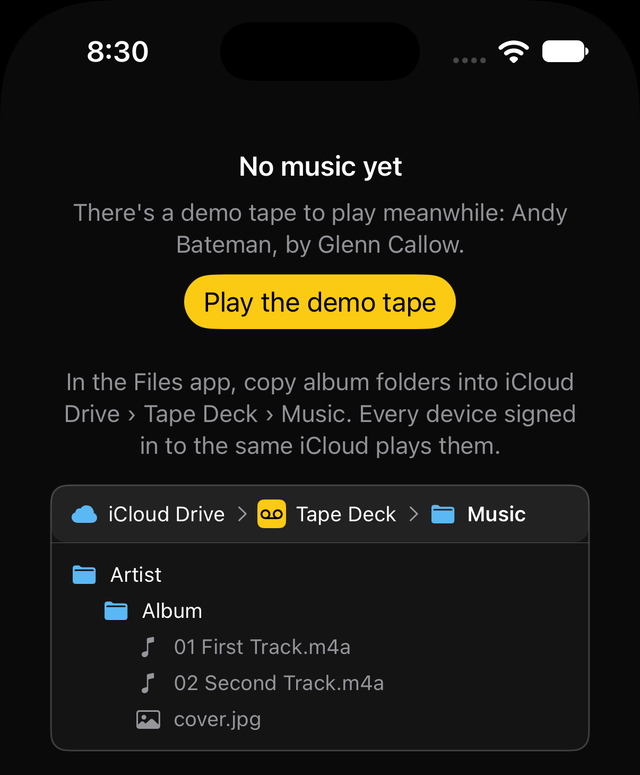
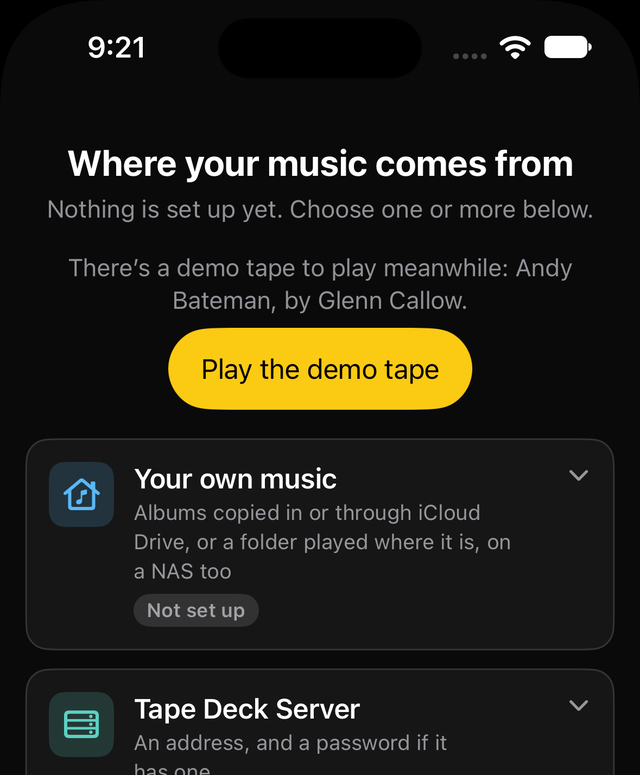
/tapedeck/: the help led by numbered pictures of the header, the keys and a row, pictures through the sections, the Questions around what testers asked, the opening screen's new picture; Get it names the OS versions

diff --git a/tapedeck/help.html b/tapedeck/help.html
@@ -25,6 +25,7 @@
   <h1>Help</h1>
   <p class="lede" style="margin-left:0">Getting your music in, playing it, and setting the tape up the way you like it.</p>
   <ul class="toc">
+    <li><a href="#guide">What the buttons are</a></li>
     <li><a href="#start">Getting started</a></li>
     <li><a href="#playing">Playing</a></li>
     <li><a href="#cassette">The cassette</a></li>
@@ -40,6 +41,76 @@
   </ul>
 </header>
 
+<section id="guide" aria-labelledby="guide-h">
+  <h2 id="guide-h">What the buttons are</h2>
+  <p>The app's header, its keys and an album's row, each numbered. Find the button you're puzzled by, then read its number underneath.</p>
+  <h3>The header</h3>
+  <figure class="guide">
+    <div class="scroll"><div class="min-600"><img src="img/guide-header.jpg" alt="The app's header with every button showing, numbered 1 to 8 from the left: the cassette mark and the title, the count, the source button, the heart, the circle, the speakers, the settings and the help" width="1520" height="232" loading="lazy"></div></div>
+    <ol class="legend">
+      <li><b>The cassette mark and the title.</b> What the list is made of: Music Library, Audiobooks or Apple Music.</li>
+      <li><b>The count.</b> How many albums (or tracks, or books) are showing, out of how many there are. A search or a filter brings the first number down.</li>
+      <li><b>The source button.</b> It is only there once you have a second source: an Audiobookshelf server or Apple Music. It opens a menu of what the list plays from, and stays lit while you are away from your own music.</li>
+      <li><b>The heart.</b> Favourites only. Press it again to see everything. In the app, hold it for a second to download your favourites.</li>
+      <li><b>The circle.</b> Downloaded only: what is on this device. In the app it also counts the tracks still to come while downloads run.</li>
+      <li><b>The speakers.</b> The system&#39;s list of AirPlay speakers. It stays lit while a speaker is chosen, and names it.</li>
+      <li><b>The settings.</b> Tape settings. A right-click on it lists the tabs by name (on the Mac, the settings open in a window of their own).</li>
+      <li><b>The help.</b> This help, as a panel in the app.</li>
+    </ol>
+    <figcaption>The header, with the source button showing as it does once there is a second source.</figcaption>
+  </figure>
+  <p class="note">The heart and the circle are switches: they stay lit while they are on, and a second press turns them off. The speakers and the source button stay lit while something other than the Mac or your own music is chosen. Every header button has a right-click menu that says what it does.</p>
+  <h3>The keys</h3>
+  <p>There are two sets, Tape and Modern. Choose in tape settings › Tape › Controls, or right-click the keys. This is the Tape set, with the meters on.</p>
+  <figure class="guide">
+    <div class="scroll"><div class="min-760"><img src="img/guide-keys.jpg" alt="The transport with the Tape keys and the LED meters on, numbered 1 to 11 from the left: Play, Rewind, Fast forward, Stop and eject, Pause, This Tape, the cassette button, the Track and Tape switch, the counter, the bar and the meters" width="2000" height="246" loading="lazy"></div></div>
+    <ol class="legend">
+      <li><b>Play.</b> It latches down while the tape runs, and its arrow shows the way the tape is going. Pressed while the tape runs, it turns the tape over.</li>
+      <li><b>Rewind.</b> Races the tape back until you press Stop or Play.</li>
+      <li><b>Fast forward.</b> The same, the other way.</li>
+      <li><b>Stop and eject.</b> ■▲ stops the tape where it is. Pressed again, it ejects.</li>
+      <li><b>Pause.</b> Holds a playing tape where it is. Press it again, or Play, to carry on.</li>
+      <li><b>This Tape.</b> The list of the album that is playing, whole (<kbd>Q</kbd>).</li>
+      <li><b>The cassette.</b> Shows or hides the cassette above the list (<kbd>C</kbd>).</li>
+      <li><b>Track or Tape.</b> What the bar shows: the track playing, or the whole tape (<kbd>T</kbd>).</li>
+      <li><b>The counter.</b> Turns of the take-up hub, as a deck&#39;s counter reads.</li>
+      <li><b>The bar.</b> How far in you are. Click it to wind to a spot.</li>
+      <li><b>The meters.</b> Left and right, green, then amber, then red as the tape gets louder. They are there only when Look › VU meters is on.</li>
+    </ol>
+    <figcaption>The transport as the Tape keys have it.</figcaption>
+  </figure>
+  <p>The Modern set swaps these for a player's keys.</p>
+  <figure class="guide short">
+    <div class="scroll"><div class="min-480"><img src="img/guide-keys-modern.jpg" alt="The Modern keys, numbered 1 to 6 from the left: Shuffle, Skip back, Play and Pause as one key, Skip forward, Repeat and Stop and eject" width="960" height="246" loading="lazy"></div></div>
+    <ol class="legend">
+      <li><b>Shuffle.</b> Plays the queue in a random order.</li>
+      <li><b>Skip back.</b> A tap goes to the previous track; hold it to rewind.</li>
+      <li><b>Play and Pause.</b> One key. It shows Pause while the music plays.</li>
+      <li><b>Skip forward.</b> A tap goes to the next track; hold it to wind on.</li>
+      <li><b>Repeat.</b> Plays the current track again when it ends.</li>
+      <li><b>Stop and eject.</b> ■▲, as in the Tape set.</li>
+    </ol>
+    <figcaption>The Modern set, playing.</figcaption>
+  </figure>
+  <h3>An album's row</h3>
+  <figure class="guide">
+    <div class="scroll"><div class="min-640"><img src="img/guide-row.jpg" alt="Three album rows. The first shows the open arrow, the track count, the heart, the download arrow and the play button, numbered 1 to 5. The second has a ring in place of the arrow and a ring filling round the download arrow. The third has a yellow dot and a download arrow filled yellow" width="1724" height="588" loading="lazy"></div></div>
+    <ol class="legend">
+      <li><b>The arrow.</b> Opens the album to show its tracks.</li>
+      <li><b>The count.</b> How many tracks the album has.</li>
+      <li><b>The heart.</b> Marks the whole album as a favourite.</li>
+      <li><b>The download arrow.</b> Fetches the album to this device without playing it.</li>
+      <li><b>Play.</b> Plays the album in order. Double-clicking the row does the same.</li>
+      <li><b>A ring</b> where the arrow was: part of the album is on this device.</li>
+      <li><b>A ring round the download arrow</b> while it downloads. It fills as the tracks arrive.</li>
+      <li><b>A yellow dot</b> where the arrow was: the whole album is on this device.</li>
+      <li><b>The arrow, filled yellow:</b> downloaded. Point at it and a × shows; pressing it removes the downloaded copy. Music you copied in yourself is never removed.</li>
+    </ol>
+    <figcaption>An album&#39;s row, then what a download does to it.</figcaption>
+  </figure>
+  <p>A track has its own heart and download arrow, for that one track.</p>
+</section>
+
 <section id="start" aria-labelledby="start-h">
   <h2 id="start-h">Getting started</h2>
   <p>Tape Deck plays music you already have. There are a few ways to bring it in, and you can use them together.</p>
@@ -49,7 +120,7 @@
     <dt>Through iCloud Drive</dt>
     <dd>Copy album folders into <b>iCloud Drive › Tape Deck › Music</b>, laid out as Artist › Album › tracks, and they're in the app on every iPhone, iPad and Mac signed in to the same iCloud. An album fills in, track by track, as iCloud brings it to each device, and shows up while the app is open. An album folder dropped straight into Music, with no artist's folder around it, is named by its tags. Open the app once on a device for the Tape Deck folder to appear there.</dd>
     <dt>Play from your own music server</dt>
-    <dd>If you run a music server, type its address in <b>tape settings › Library › Music server</b>, or on the first screen when there's no music yet. It can be a Tape Deck Server, Plex (sign in with your Plex account) or a Subsonic server such as Navidrome, or Jellyfin through its Subsonic plugin. The whole library on it is listed; a track downloads when you play it, and the rest of its album after it.</dd>
+    <dd>If you run a music server, type its address in <b>tape settings › Library › Music server</b>, or in its tile on the app's opening screen. It can be a Tape Deck Server, Plex (sign in with your Plex account) or a Subsonic server such as Navidrome, or Jellyfin through its Subsonic plugin. The whole library on it is listed; a track downloads when you play it, and the rest of its album after it. If the server asks for a password, a Password field shows. <b>Start again</b>, under the server in tape settings › Library, forgets the server and its sign-in and shows the opening screen again, with <b>Open the player</b> to come back.</dd>
     <dt>No server? Run Tape Deck Server</dt>
     <dd><a href="https://github.com/andybateman/tape-deck-server">Tape Deck Server</a> is a free, open-source music server for the app: one Python file, or one Docker container, on any computer, NAS or Raspberry Pi. Point it at a folder of albums laid out as Artist › Album › tracks, put it behind HTTPS (Caddy or Tailscale Serve will do), and type that address into the app. A password keeps it yours, and a second one lets friends play without touching your favourites.</dd>
     <dt>A music folder, or a NAS</dt>
@@ -90,8 +161,12 @@
     <dt>With the screen off</dt>
     <dd>Music keeps playing with the screen locked or the app in the background, and the lock screen, Control Centre and headphone controls work. A call or an alarm stops the tape, and it carries on afterwards; so does the car's announcement. Taking the headphones out, or leaving the car, stops it.</dd>
     <dt>AirPlay speakers</dt>
-    <dd>The jack plug in the header lists your AirPlay speakers. Choose one and the tape plays there, and the cassette is drawn a little late to keep time with what you hear.</dd>
+    <dd>The speakers button in the header (a jack plug) lists your AirPlay speakers. Choose one and the tape plays there, and the cassette is drawn a little late to keep time with what you hear.</dd>
   </dl>
+  <figure class="pic">
+    <img src="img/mixtape.jpg" alt="A mixtape being made: the bar over the list with its name, Sunday Drive, how many tracks are on it, and Delete and Done, and a + on every album&#39;s row" width="1800" height="600" loading="lazy">
+    <figcaption>Making a mixtape: name it in the bar, and press + on what you want.</figcaption>
+  </figure>
 </section>
 
 <section id="cassette" aria-labelledby="cassette-h">
@@ -110,6 +185,14 @@
     <dt>Tape settings</dt>
     <dd>The gear in the header or on the cassette, or <kbd>G</kbd>. <b>Tape</b>: what a side holds, side length, auto-reverse, the keys and the leader. <b>Sound</b>: the tape's condition, its type and Dolby, the cue tone and motor wow. <b>Look</b>: the shell, the label, the handwriting, the VU meters and the tint from the cover. <b>Library</b>: the music server, the audiobook server, the downloads, and Reset, which puts the settings back to their defaults and keeps your favourites and your place.</dd>
   </dl>
+  <figure class="pic narrow">
+    <img src="img/meters.jpg" alt="The VU meters in the transport, lit to a loud passage: two rows of twelve lights, green, then amber, then a red one" width="760" height="130" loading="lazy">
+    <figcaption>The VU meters, lit.</figcaption>
+  </figure>
+  <figure class="pic narrow">
+    <img src="img/settings-tabs.jpg" alt="Tape settings open on Look, with its four tabs, Tape, Sound, Look and Library, along the top" width="600" height="1200" loading="lazy">
+    <figcaption>Tape settings, with its four tabs.</figcaption>
+  </figure>
 </section>
 
 <section id="library" aria-labelledby="library-h">
@@ -122,9 +205,9 @@
     <dt>Search</dt>
     <dd>Searches title, artist and album as you type; every word has to match somewhere, and accents don't need typing. <kbd>Esc</kbd>, or the cross in the box, clears it.</dd>
     <dt>Favourites</dt>
-    <dd>The heart on a track marks it; the heart on an album's row marks the whole album. The heart in the header shows favourites only. They follow you between your iPhone, iPad and Mac through iCloud.</dd>
+    <dd>The heart on a track marks it; the heart on an album's row marks the whole album. The heart in the header, Favourites only, shows nothing but favourites. They follow you between your iPhone, iPad and Mac through iCloud.</dd>
     <dt>What's on this device</dt>
-    <dd>A yellow dot means an album or track is on this device; a ring means part of the album is. The ring-and-dot button in the header shows only what's on this device. When the server can't be reached, everything else is dimmed and skipped.</dd>
+    <dd>A yellow dot means an album or track is on this device; a ring means part of the album is. The Downloaded only button in the header, a ring with a dot, shows only what's on this device. When the server can't be reached, everything else is dimmed and skipped.</dd>
     <dt>Downloads</dt>
     <dd>The download button beside an album's ▶ fetches it without playing it, and × removes the downloaded copy (music you copied in yourself is never removed). A track has its own download button beside its heart, for that one track. Tape settings › Library › Downloads sets how much space to keep, 20 GB unless you change it; past that, the albums played longest ago are removed first. Download there, or a long press on the header's heart, fetches every favourite.</dd>
   </dl>
@@ -156,6 +239,10 @@
     <dt>Keeping your place</dt>
     <dd>So a stray tap can't lose your place, a book's tape moves only by Rewind and Fast forward, the bar in Track view, and a chapter's row.</dd>
   </dl>
+  <figure class="pic">
+    <img src="img/books.jpg" alt="Audiobooks in Tape Deck: the header with the source button lit, a book open to its chapters, one of them playing, and how far in each of the others is" width="2400" height="1800" loading="lazy">
+    <figcaption>A book open to its chapters, one of them playing.</figcaption>
+  </figure>
 </section>
 
 <section id="watch" aria-labelledby="watch-h">
@@ -186,6 +273,10 @@
     <dt>iMessage stickers</dt>
     <dd>In a conversation in Messages, tap + and choose Tape Deck (under More if it isn't listed). There are eight cassettes, their hubs turning, each labelled in a hand with something to send: Mixtape, Road Trip, Love Songs, Thank You, Miss You, Happy Birthday, Good Night and Mind Blown. Tap one to send it, or touch and hold it to stick it on a message.</dd>
   </dl>
+  <figure class="pic narrow">
+    <img src="img/widget.png" alt="The Home Screen widget at its medium size: the cassette in the deck, the album and its side, and the keys Previous, Stop and Next under it" width="1092" height="510" loading="lazy">
+    <figcaption>The widget at its medium size.</figcaption>
+  </figure>
 </section>
 
 <section id="car" aria-labelledby="car-h">
@@ -212,6 +303,10 @@
     <dt>Settings</dt>
     <dd>Tape Deck › Settings… (<kbd>⌘,</kbd>) opens tape settings in a window of their own.</dd>
   </dl>
+  <figure class="pic narrow">
+    <img src="img/menu-cassette.jpg" alt="The cassette&#39;s right-click menu open beside it: Turn tape over, Eject, the shells, Clear shell, Cutaway, Exploded view, Label, VU meters, Full screen and Tape settings" width="1206" height="1052" loading="lazy">
+    <figcaption>A right-click on the cassette.</figcaption>
+  </figure>
 </section>
 
 <section id="keys" aria-labelledby="keys-h">
@@ -239,13 +334,35 @@
 
 <section id="faq" aria-labelledby="faq-h">
   <h2 id="faq-h">Questions</h2>
-  <details><summary>The app says "No music yet"</summary><p>It has found nothing to play; the button on that screen plays the demo tape meanwhile, which goes when music of your own comes. The screen shows where music goes: copy album folders into iCloud Drive › Tape Deck › Music, or through the Files app into the app's own folder (File › Show Albums Folder on the Mac), or type your music server's address on that screen. With no server of your own, <a href="https://github.com/andybateman/tape-deck-server">Tape Deck Server</a> serves a folder of music to the app.</p><img class="screen" src="img/first-screen.png" alt="The first screen with no music: a Play the demo tape button, then a drawing of iCloud Drive, Tape Deck, Music, with an artist's folder, an album's folder and its tracks inside" width="640" height="775" loading="lazy"></details>
-  <details><summary>The watch shows an empty deck</summary><p>The watch draws what's in your iPhone's deck, so open Tape Deck on the iPhone. With both in reach of each other, the tape appears on the watch within a few seconds.</p></details>
-  <details><summary>Does Tape Deck stream from a music service?</summary><p>Apple Music, with a subscription: Apple Music, from the source button in the header, plays your Apple Music library and the catalogue as tapes. Otherwise it plays music you have as files: copied into the app, in a folder on the Mac, or on your own music server.</p></details>
-  <details><summary>My favourites aren't on my other device</summary><p>They go through iCloud: check you're signed in to iCloud with the same Apple Account on both. They usually arrive within a minute.</p></details>
+  <p>What people have asked while testing Tape Deck.</p>
+
+  <h3 class="faq-h">Getting started</h3>
+  <details><summary>The app opens on "Where your music comes from"</summary><p>That's the opening screen: it shows when there's nothing to play yet, and whenever you ask for it in <b>tape settings › Library › Where the music comes from</b>. Each source has a tile saying what it needs and how it stands: your own music (copied into iCloud Drive › Tape Deck › Music, into the app's own folder through the Files app, or File › Show Albums Folder on the Mac, or a folder played where it is), a Tape Deck Server, Plex, Jellyfin or another Subsonic server, Audiobookshelf and Apple Music. Tap one to set it up there. A folder you make yourself, with the app's folder's name, isn't read: use the app's own, which Open in Files takes you to. Meanwhile the demo tape plays, and goes when music of your own comes. With no server of your own, <a href="https://github.com/andybateman/tape-deck-server">Tape Deck Server</a> serves a folder of music to the app.</p><img class="screen" src="img/first-screen.png" alt="The opening screen, Where your music comes from: nothing set up yet, a Play the demo tape button, then tiles for Your own music and Tape Deck Server, each with a small picture, what it needs and Not set up" width="640" height="775" loading="lazy"></details>
+  <details><summary>Which iPhone or iOS does it need?</summary><p>iOS 18 or later for the iPhone and iPad, macOS 15 for the Mac and watchOS 11 for the Apple Watch. On something older the app won&rsquo;t install, so update the system first.</p></details>
+  <details><summary>The invitation email&rsquo;s sign-in loops</summary><p>Open the invitation on the iPhone itself, install TestFlight from the App Store, and choose View in TestFlight (or Start Testing) in the email. If the sign-in still loops, open the same link on a Mac, or in a private browser window. An invitation runs out after a few days, so ask for a new one if yours has.</p></details>
+  <details><summary>TestFlight emailed me a build number that doesn&rsquo;t match</summary><p>The iPhone and the Mac apps are built separately, and each has its own build number. Check which app the email names: a Mac build is not an update for the iPhone.</p></details>
+  <details><summary>It went black after a while in the background</summary><p>iOS can end the app&rsquo;s page to free memory while it is in the background, and older builds were left with nothing to show. Version 4.29.2 loads the page again when you come back, so update from TestFlight.</p></details>
+  <details><summary>The watch shows an empty deck</summary><p>The watch draws what&rsquo;s in your iPhone&rsquo;s deck, so open Tape Deck on the iPhone. With both in reach of each other, the tape appears on the watch within a few seconds.</p></details>
   <details><summary>How do I make it sound clean?</summary><p>In tape settings › Sound, set the condition to Fresh and turn off the cue tone and motor wow; in Tape, turn off the lead in and lead out.</p></details>
-  <details><summary>Does it collect anything about me?</summary><p>No. There's no account and no tracking, and the only permission the app asks for is to use Apple Music, the first time you choose it from the source button. Your music stays on your devices and your own servers, and your favourites go through your own iCloud.</p></details>
-  <p>Something else? Email <a href="mailto:andy@andybateman.com">andy@andybateman.com</a>. The <a href="privacy.html">privacy policy</a> says what the app keeps, and where.</p>
+  <details><summary>Does it collect anything about me?</summary><p>No. There&rsquo;s no account and no tracking, and the only permission the app asks for is to use Apple Music, the first time you choose it from the source button. Your music stays on your devices and your own servers, and your favourites go through your own iCloud. The <a href="privacy.html">privacy policy</a> says what the app keeps, and where.</p></details>
+
+  <h3 class="faq-h">Servers and sources</h3>
+  <details><summary>Can I use Spotify?</summary><p>No. Spotify isn&rsquo;t a source Tape Deck can play. It plays Apple Music (with a subscription) and music you have as files: copied into the app, in a folder, or on your own music server.</p></details>
+  <details><summary>Does Tape Deck stream from a music service? Do I need an Apple Music subscription?</summary><p>Apple Music, with a subscription: Apple Music, from the source button in the header, plays your Apple Music library and the catalogue as tapes, and playing needs the subscription even for songs already in your library. Without one, Tape Deck plays music you have as files. <a href="#apple">More on Apple Music</a>.</p></details>
+  <details><summary>Should I have the book icon?</summary><p>That is the source button, and it is only there once there is a second source: an Audiobookshelf server (tape settings › Library) or Apple Music. With only your own music, the header has no source button. It is number 3 in <a href="#guide">the picture of the header</a>.</p></details>
+  <details><summary>Can I point it at my Jellyfin, Plex or Navidrome?</summary><p>Yes. Type the address in tape settings › Library › Music server. A Navidrome server works as it is, and Jellyfin works through its Subsonic plugin. For Plex, sign in with your Plex account. The music server Tape Deck was made for is <a href="https://github.com/andybateman/tape-deck-server">Tape Deck Server</a>.</p></details>
+  <details><summary>My server asks for a password</summary><p>The first screen shows a Password field when the server asks. A Tape Deck Server&rsquo;s sign-in is kept for 30 days and asked for again when it runs out (from version 4.20.1); a Subsonic server takes a username and password. If you have forgotten it, Start again, in tape settings › Library, forgets the server and its sign-in and shows the opening screen.</p></details>
+  <details><summary>The first screen says Connecting&hellip; and never stops</summary><p>That was a server asking for its password while the password field was empty: Connect asked again, and was asked again. From version 4.35.1, with the password wanted and the field empty, Connect says so. Type the password, or choose Start again if you meant a different server.</p></details>
+  <details><summary>It says &ldquo;That server didn&rsquo;t answer&rdquo;</summary><p>Either the address can&rsquo;t be reached from where you are, or the server wants a password and the app was never given one. Open the address in Safari to see which; if it asks for a password, the first screen has the field for it (version 4.20.1 and later).</p></details>
+  <details><summary>Can I play my music from a NAS?</summary><p>Yes, two ways. On the iPhone or iPad, connect the NAS in the Files app (⋯ › Connect to Server, such as smb://192.168.1.20), then choose its music folder in tape settings › Library › Music folder › Choose (version 4.30.0 and later). Or run a music server on it and type its address. The folder must hold one folder per artist, with one per album inside.</p></details>
+
+  <h3 class="faq-h">What you see</h3>
+  <details><summary>What do the icons in the header mean?</summary><p>From the left: the cassette mark and the title, the count, the source button, the heart (favourites only), the circle (downloaded only), the speakers, the settings and the help. <a href="#guide">The numbered picture at the top of this help</a> says what each does.</p></details>
+  <details><summary>Why do some buttons stay lit?</summary><p>The heart and the circle are switches, so they stay lit while they are on, and a second press turns them off. The source button is lit while you are away from your own music, and the speakers while a speaker is chosen. On a touch screen a button can also look lit after a tap until you touch something else: that is the screen&rsquo;s own hover left standing, not a setting, and it is mended from the build after 4.35.3.</p></details>
+  <details><summary>What do the heart and the download arrow on an album do?</summary><p>The heart marks the whole album as a favourite, and the heart in the header then shows favourites only. The arrow downloads the album to this device without playing it; a ring or a yellow dot where the arrow was says how much of it is here. <a href="#guide">The picture of an album&rsquo;s row</a> has each state.</p></details>
+  <details><summary>What are the yellow dots and rings?</summary><p>A dot means the album or track is on this device, and a ring means part of it is. The circle in the header shows only what is on this device, and counts the tracks still to come while downloads run.</p></details>
+  <details><summary>My favourites aren&rsquo;t on my other device</summary><p>They go through iCloud: check you&rsquo;re signed in to iCloud with the same Apple Account on both. They usually arrive within a minute.</p></details>
+  <p>Something else? Email <a href="mailto:andy@andybateman.com">andy@andybateman.com</a>.</p>
 </section>
 
 </main>

diff --git a/tapedeck/style.css b/tapedeck/style.css
@@ -80,6 +80,31 @@ summary { cursor: pointer; font-weight: 700; }
 details p { color: var(--dim); margin: 10px 0 0; }
 .toc { display: flex; flex-wrap: wrap; gap: 8px 18px; margin: 18px 0 0; padding: 0; list-style: none; }
 
+/* The help's pictures: a figure with its caption, and for the guides the legend as an ordered list whose
+   numbers are the yellow ones drawn on the picture. The guides scroll sideways on a phone rather than shrink the numbers. */
+figure { margin: 22px 0 8px; }
+figure img { width: 100%; border: 1px solid var(--line); }
+figure.narrow { max-width: 520px; }
+figure.short { max-width: 560px; }
+figure.narrow img[src$="settings-tabs.jpg"] { max-width: 300px; }
+figure.narrow img[src$="meters.jpg"] { max-width: 380px; }
+figcaption { color: var(--dim); font-size: 14px; margin: 8px 0 0; }
+.scroll .min-480 { min-width: 480px; }
+.scroll .min-600 { min-width: 600px; }
+.scroll .min-640 { min-width: 640px; }
+.scroll .min-760 { min-width: 760px; }
+.scroll { overflow-x: auto; border-radius: var(--radius); -webkit-overflow-scrolling: touch; }
+ol.legend { list-style: none; counter-reset: legend; margin: 14px 0 0; padding: 0; }
+ol.legend li { counter-increment: legend; position: relative; padding-left: 38px; margin: 9px 0; color: var(--dim); }
+ol.legend li::before {
+  content: counter(legend); position: absolute; left: 0; top: 0.1em; width: 26px; height: 26px; border-radius: 50%;
+  background: var(--yellow); color: #000; font: 700 14px/26px -apple-system, BlinkMacSystemFont, "Segoe UI", system-ui, sans-serif; text-align: center;
+}
+ol.legend b { color: var(--text); }
+.help p.note { color: var(--dim); font-size: 16px; max-width: 720px; }
+.help h3 { margin-top: 30px; }
+.help h3.faq-h { margin: 30px 0 0; color: var(--yellow); font-size: 17px; letter-spacing: 0.02em; }
+
 footer { border-top: 1px solid var(--line); margin-top: 64px; padding: 28px 0 48px; color: var(--dim); font-size: 15px; }
 
 @media (max-width: 720px) {

diff --git a/tapedeck/index.html b/tapedeck/index.html
@@ -172,7 +172,8 @@
 <section aria-labelledby="get">
   <h2 id="get">Get it</h2>
   <p>Tape Deck is in beta on TestFlight for iPhone, iPad and Mac, with the Apple Watch app inside the iPhone one. <!-- the public TestFlight link, once there is one --> The link to join is coming soon.</p>
-  <p class="caption" style="text-align:left">Questions? <a href="help.html">The help</a> covers getting your music in, the keys and the settings.</p>
+  <p>It needs iOS 18 or later on the iPhone and iPad, macOS 15 on the Mac and watchOS 11 on the Apple Watch.</p>
+  <p class="caption" style="text-align:left">Questions? <a href="help.html">The help</a> starts with a numbered picture of the header, the keys and an album&rsquo;s row, then covers getting your music in, the keys, the settings and the questions testers have asked.</p>
 </section>
 
 </main>
